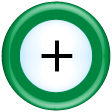
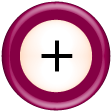
2/2/12 add images for absorbance meter 2/2/12 change color of concentration meter/probe/wire, so it's different from absorbance meter

diff --git a/simulations-java/simulations/beers-law-lab/src/edu/colorado/phet/beerslawlab/common/BLLResources.java b/simulations-java/simulations/beers-law-lab/src/edu/colorado/phet/beerslawlab/common/BLLResources.java
@@ -57,6 +57,9 @@ public class BLLResources {
 
     // Images
     public static class Images {
+        public static final Image ABSORBANCE_METER_BODY_LEFT = RESOURCES.getImage( "absorbance-meter-body-left.png" );
+        public static final Image ABSORBANCE_METER_BODY_CENTER = RESOURCES.getImage( "absorbance-meter-body-center.png" );
+        public static final Image ABSORBANCE_METER_BODY_RIGHT = RESOURCES.getImage( "absorbance-meter-body-right.png" );
         public static final Image CONCENTRATION_METER_BODY_LEFT = RESOURCES.getImage( "concentration-meter-body-left.png" );
         public static final Image CONCENTRATION_METER_BODY_CENTER = RESOURCES.getImage( "concentration-meter-body-center.png" );
         public static final Image CONCENTRATION_METER_BODY_RIGHT = RESOURCES.getImage( "concentration-meter-body-right.png" );

diff --git a/simulations-java/simulations/beers-law-lab/src/edu/colorado/phet/beerslawlab/concentration/view/ConcentrationMeterNode.java b/simulations-java/simulations/beers-law-lab/src/edu/colorado/phet/beerslawlab/concentration/view/ConcentrationMeterNode.java
@@ -259,7 +259,7 @@ class ConcentrationMeterNode extends PhetPNode {
     private static class WireNode extends PPath {
 
         public WireNode( final ConcentrationMeter meter, final ImmutableVector2D bodyCenterOffset ) {
-            setStrokePaint( new Color( 0, 133, 65 ).darker() ); // green, a little darker than the meter body
+            setStrokePaint( new Color( 133, 0, 66 ).darker() ); // a little darker than the meter body
             setStroke( new BasicStroke( 6f ) );
 
             SimpleObserver observer = new SimpleObserver() {
